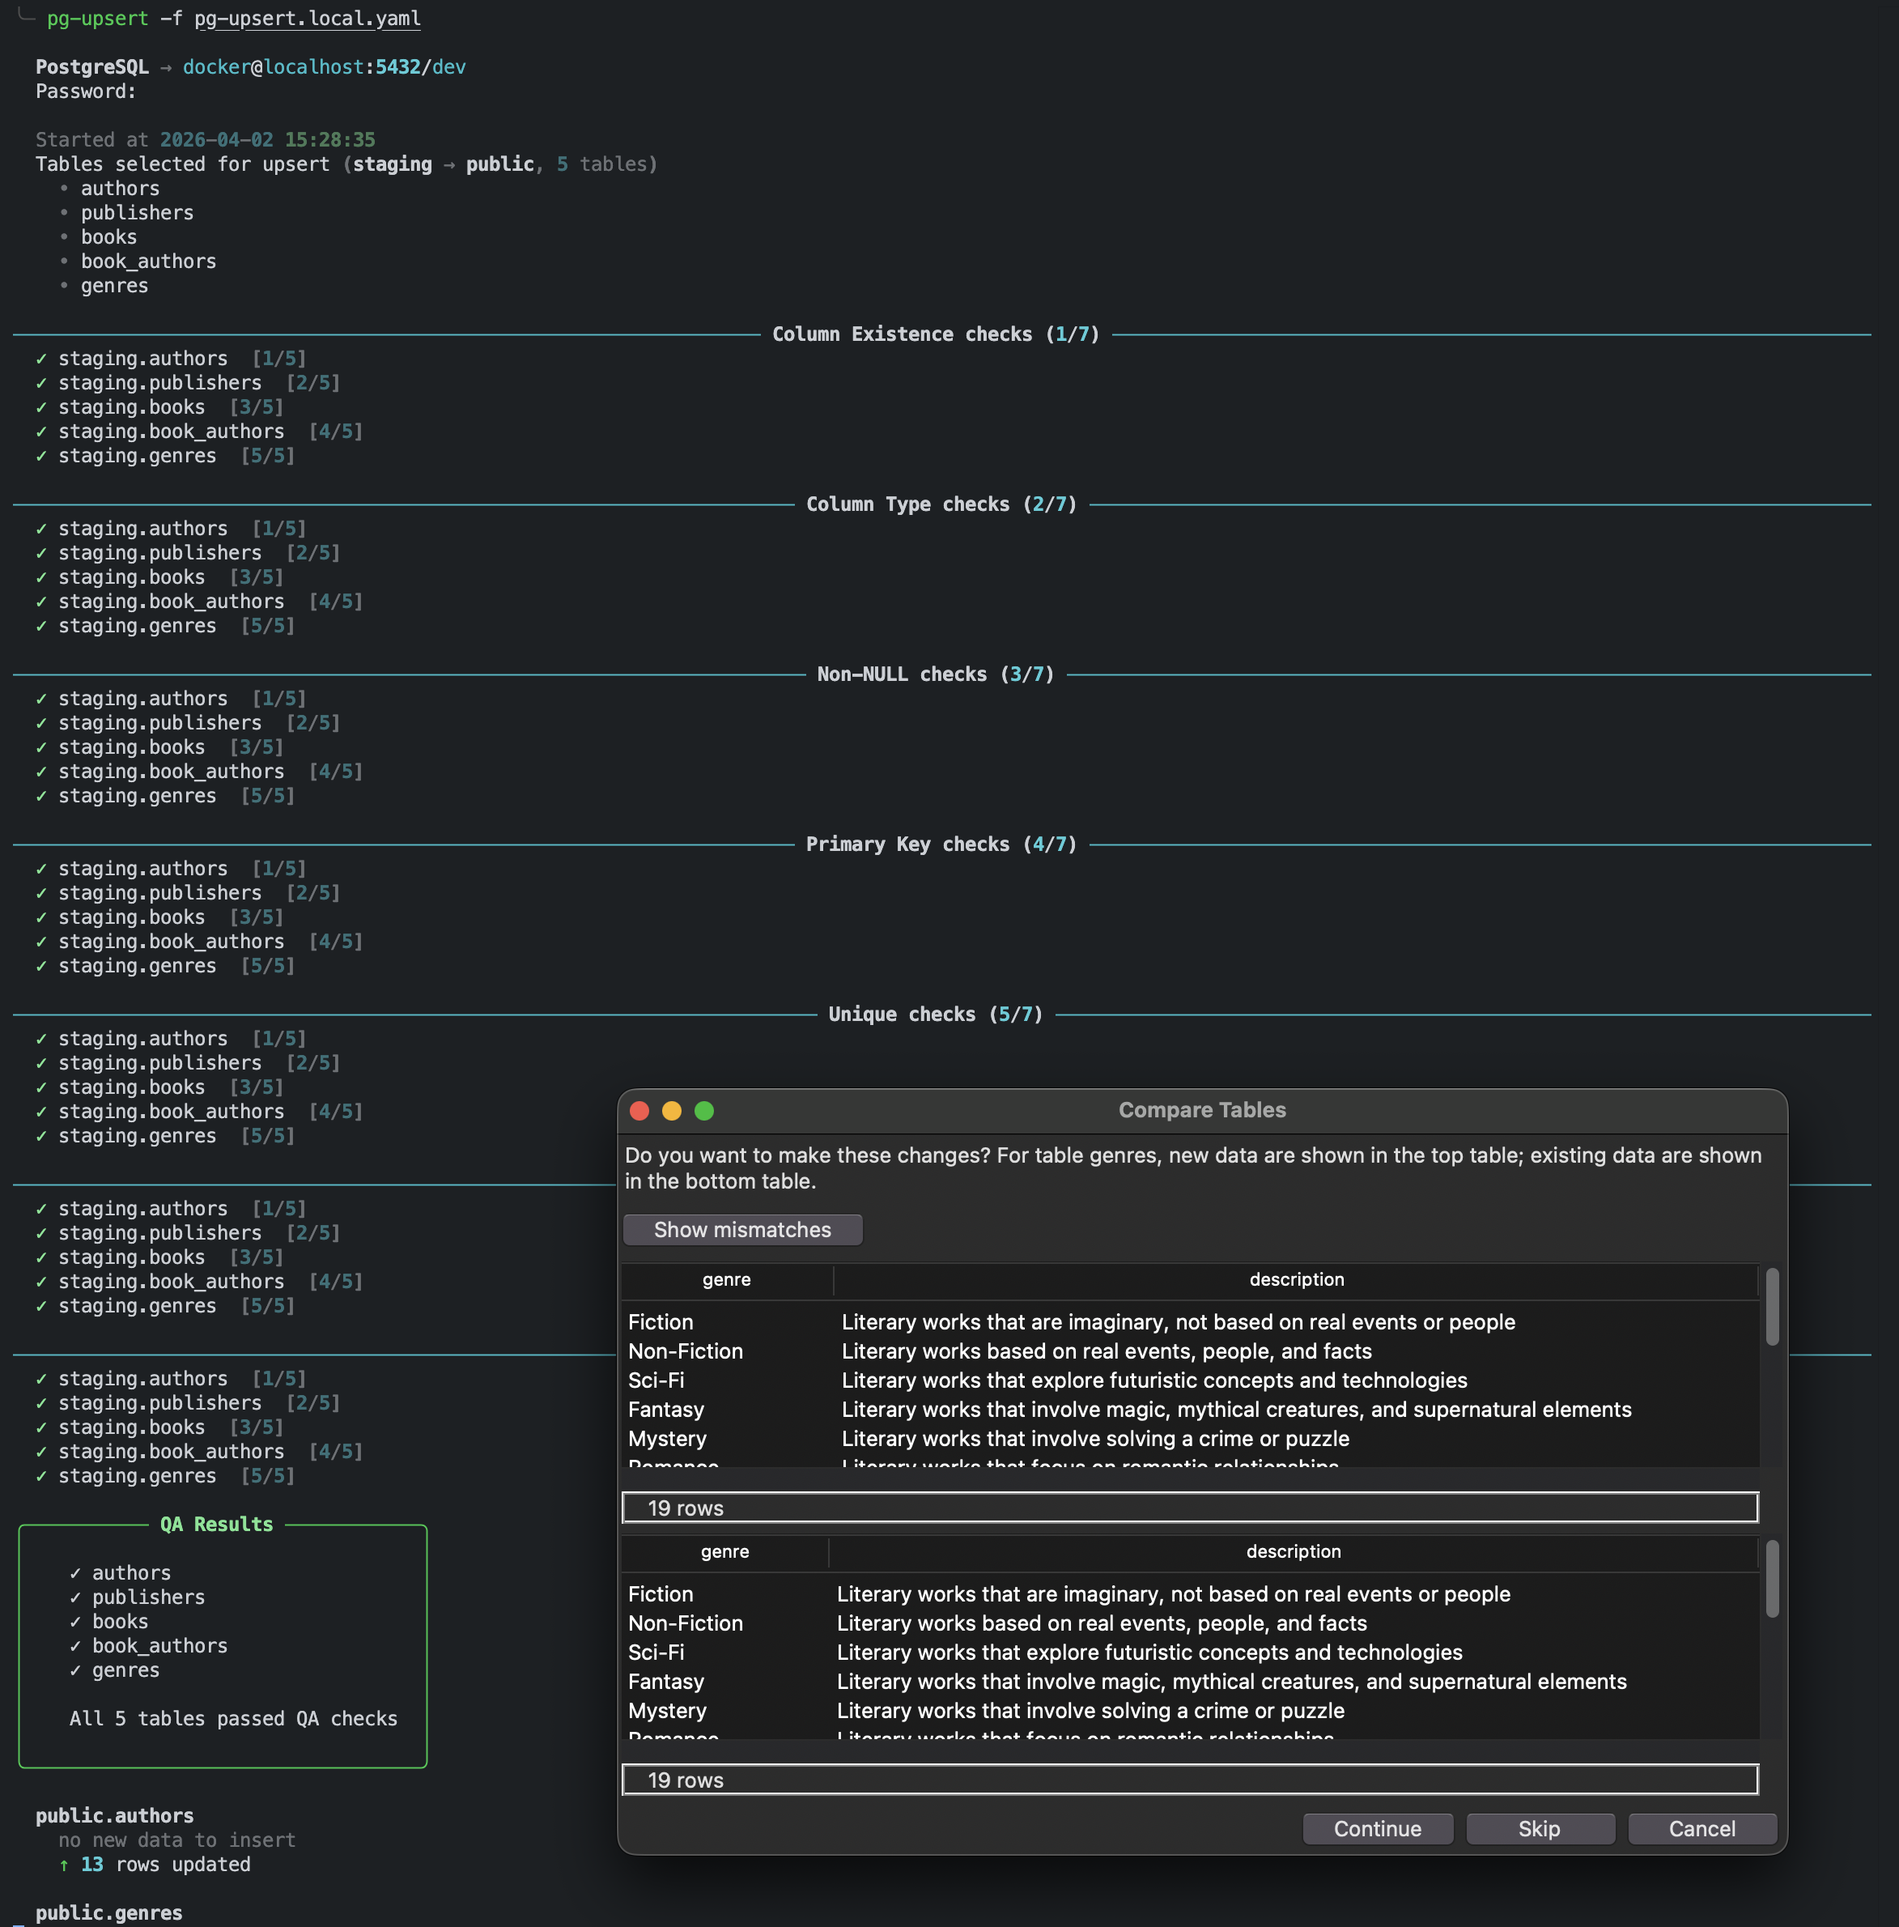
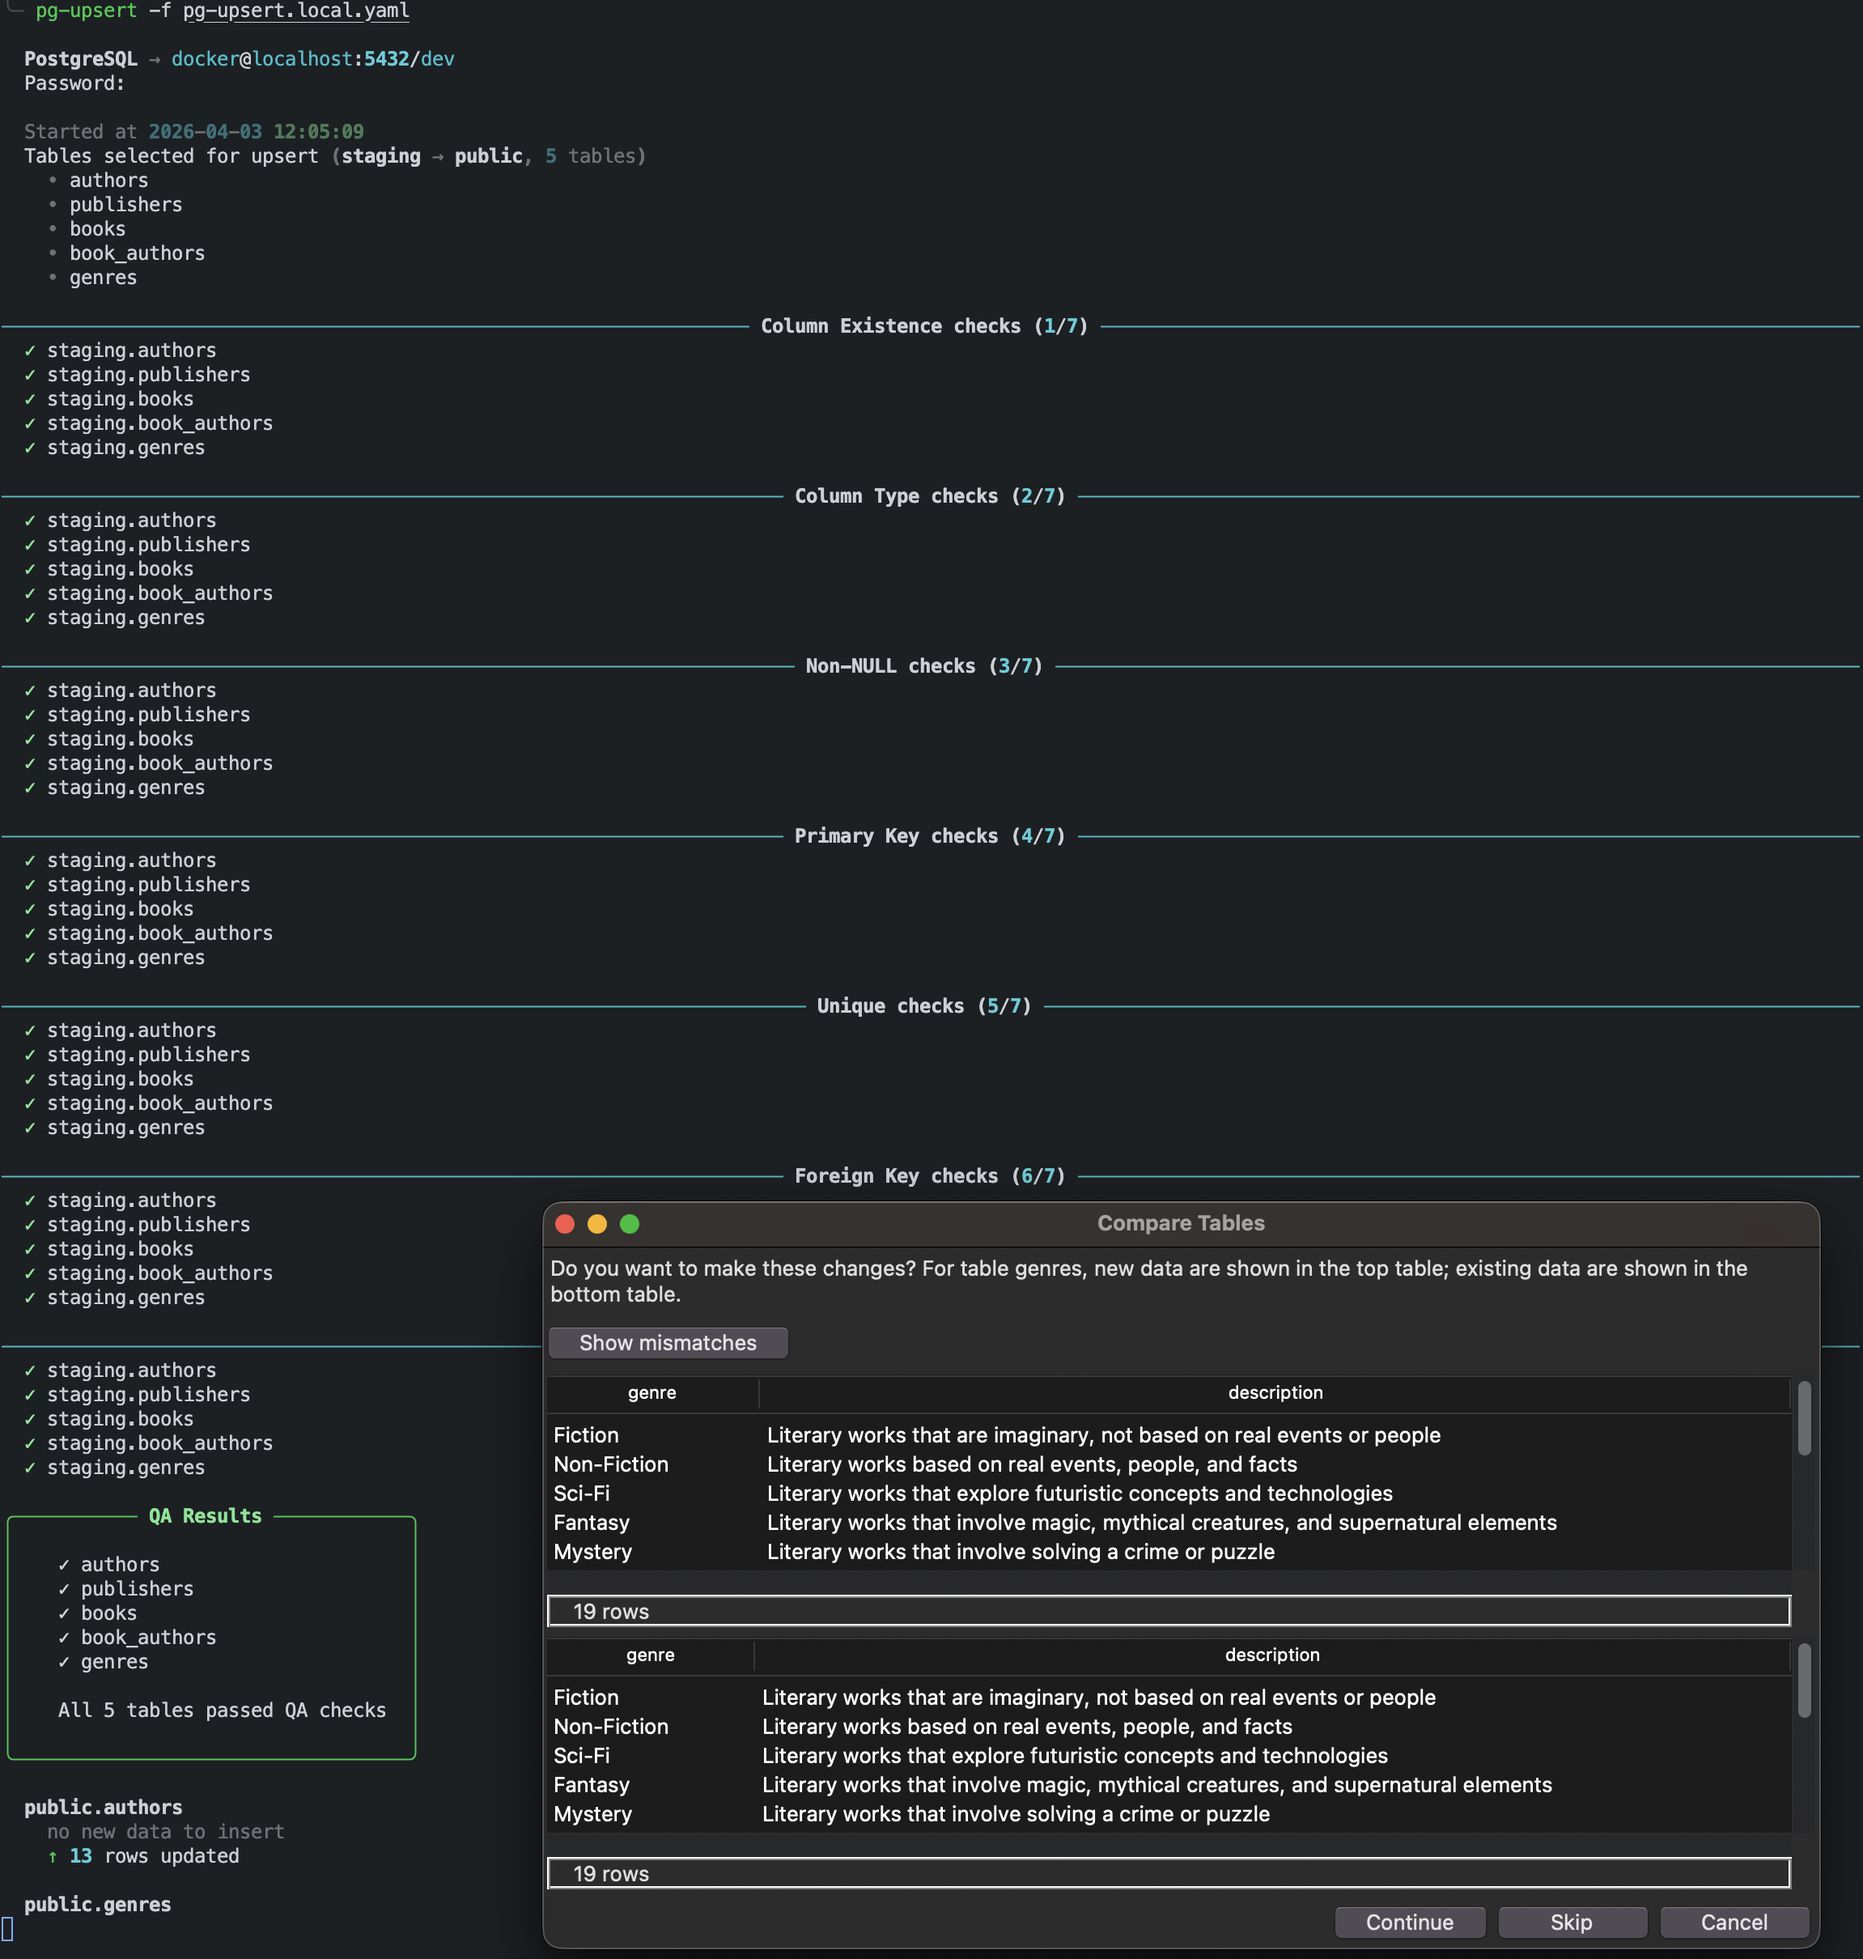
Update CLI description and example screenshot
Shorten CLI help text to match GitHub project description.
Update screenshot to reflect current terminal output.

Bump version 1.18.0 → 1.18.1.

diff --git a/src/pg_upsert/cli.py b/src/pg_upsert/cli.py
@@ -18,10 +18,7 @@ from .utils import CustomLogFormatter
 
 _TITLE = "pg_upsert"
 _DOCS_URL = "https://pg-upsert.readthedocs.io/"
-_DESCRIPTION = (
-    "Run not-NULL, Primary Key, Foreign Key, Unique, and Check Constraint checks "
-    "on staging tables then update and insert (upsert) data from staging tables to base tables."
-)
+_DESCRIPTION = "Run QA checks on PostgreSQL staging tables then upsert data into base tables."
 try:
     _VERSION = version(_TITLE)
 except PackageNotFoundError:

diff --git a/CHANGELOG.md b/CHANGELOG.md
@@ -10,6 +10,15 @@ ______________________________________________________________________
 
 ______________________________________________________________________
 
+## [1.18.1] - 2026-04-03
+
+### Changed
+
+- Updated CLI description to match GitHub project description.
+- Updated example screenshot.
+
+______________________________________________________________________
+
 ## [1.18.0] - 2026-04-03
 
 ### Added
